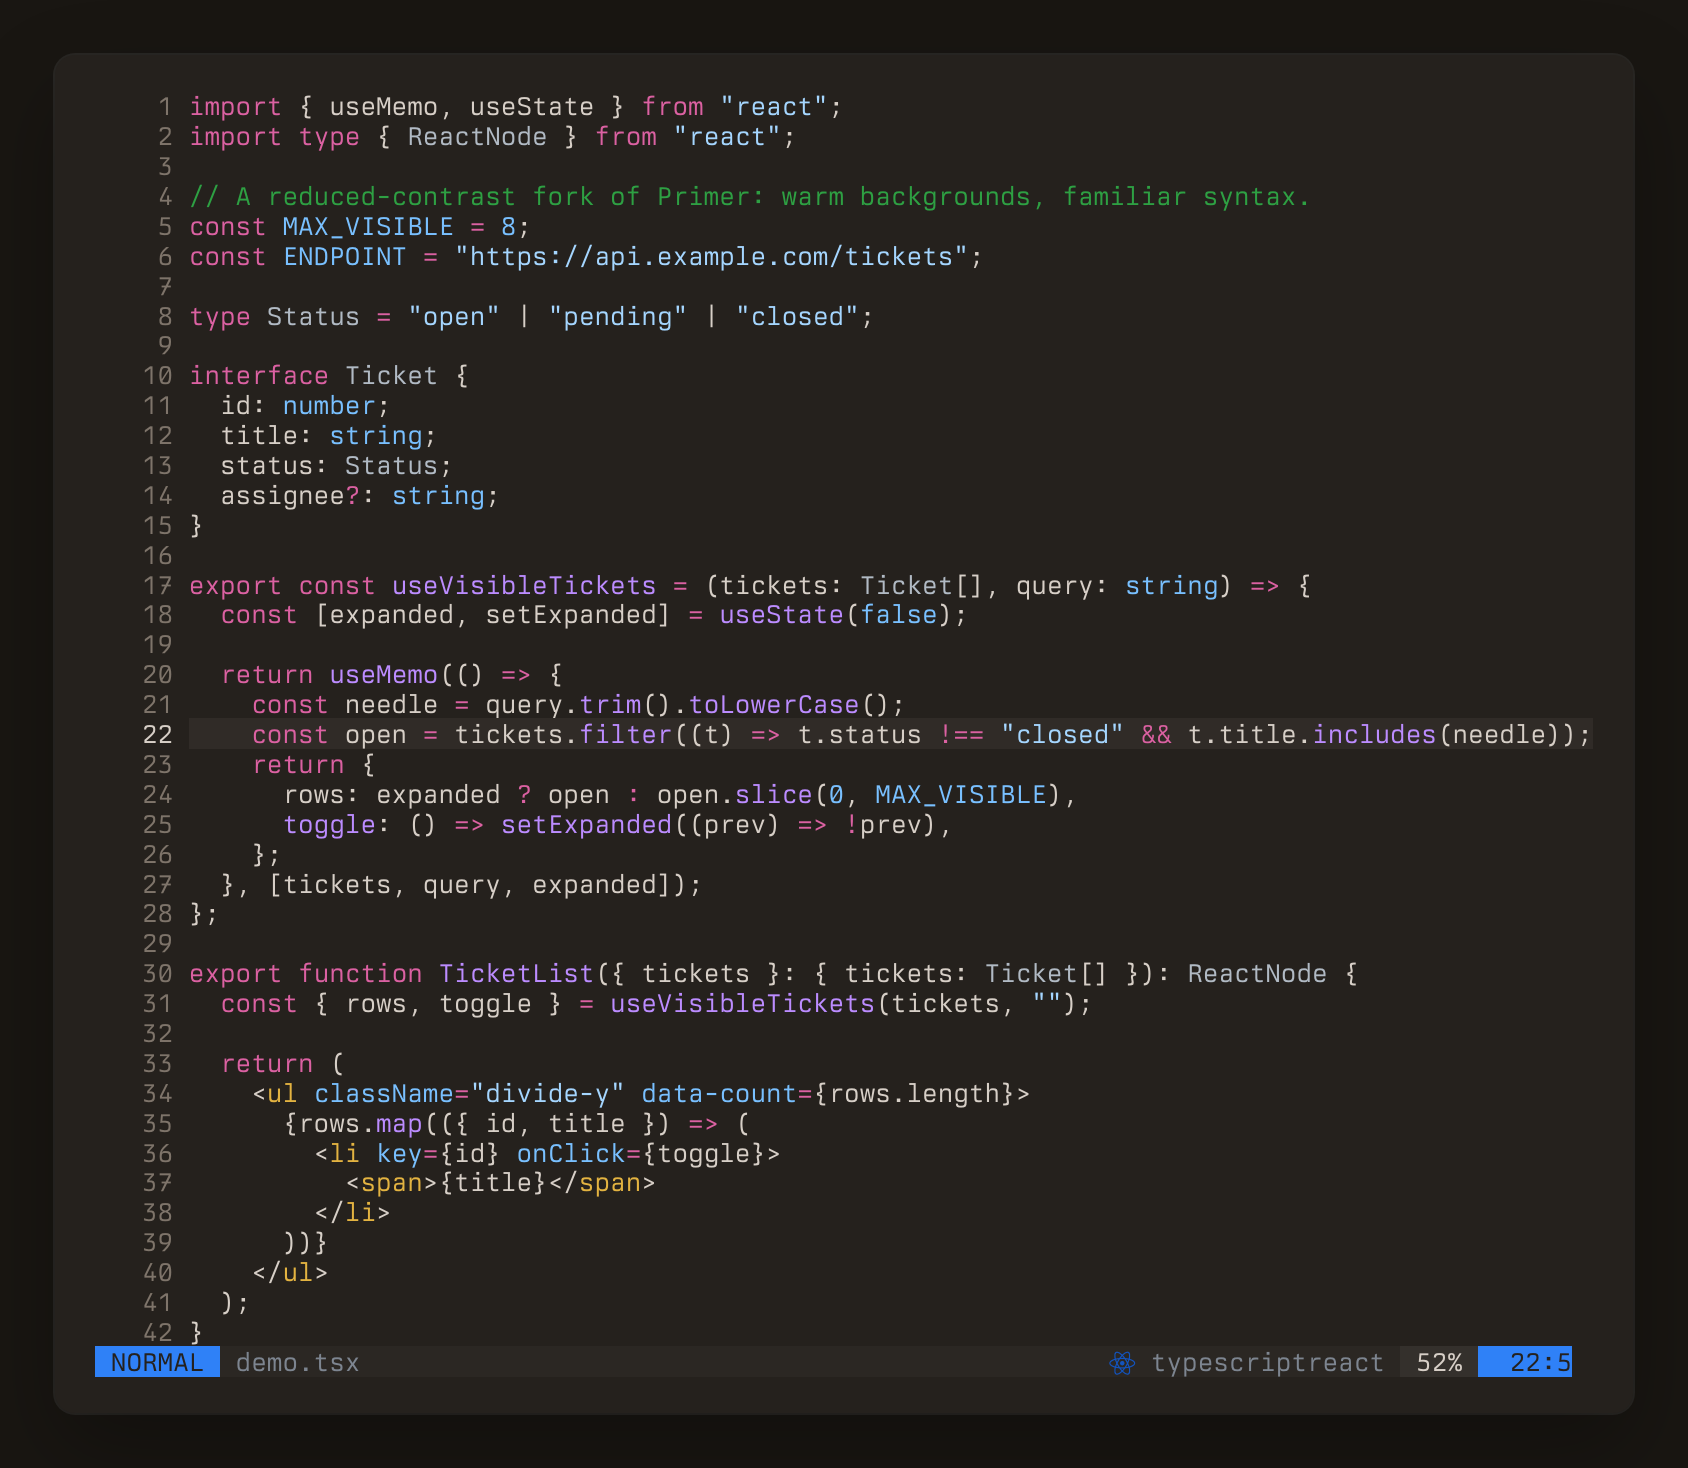
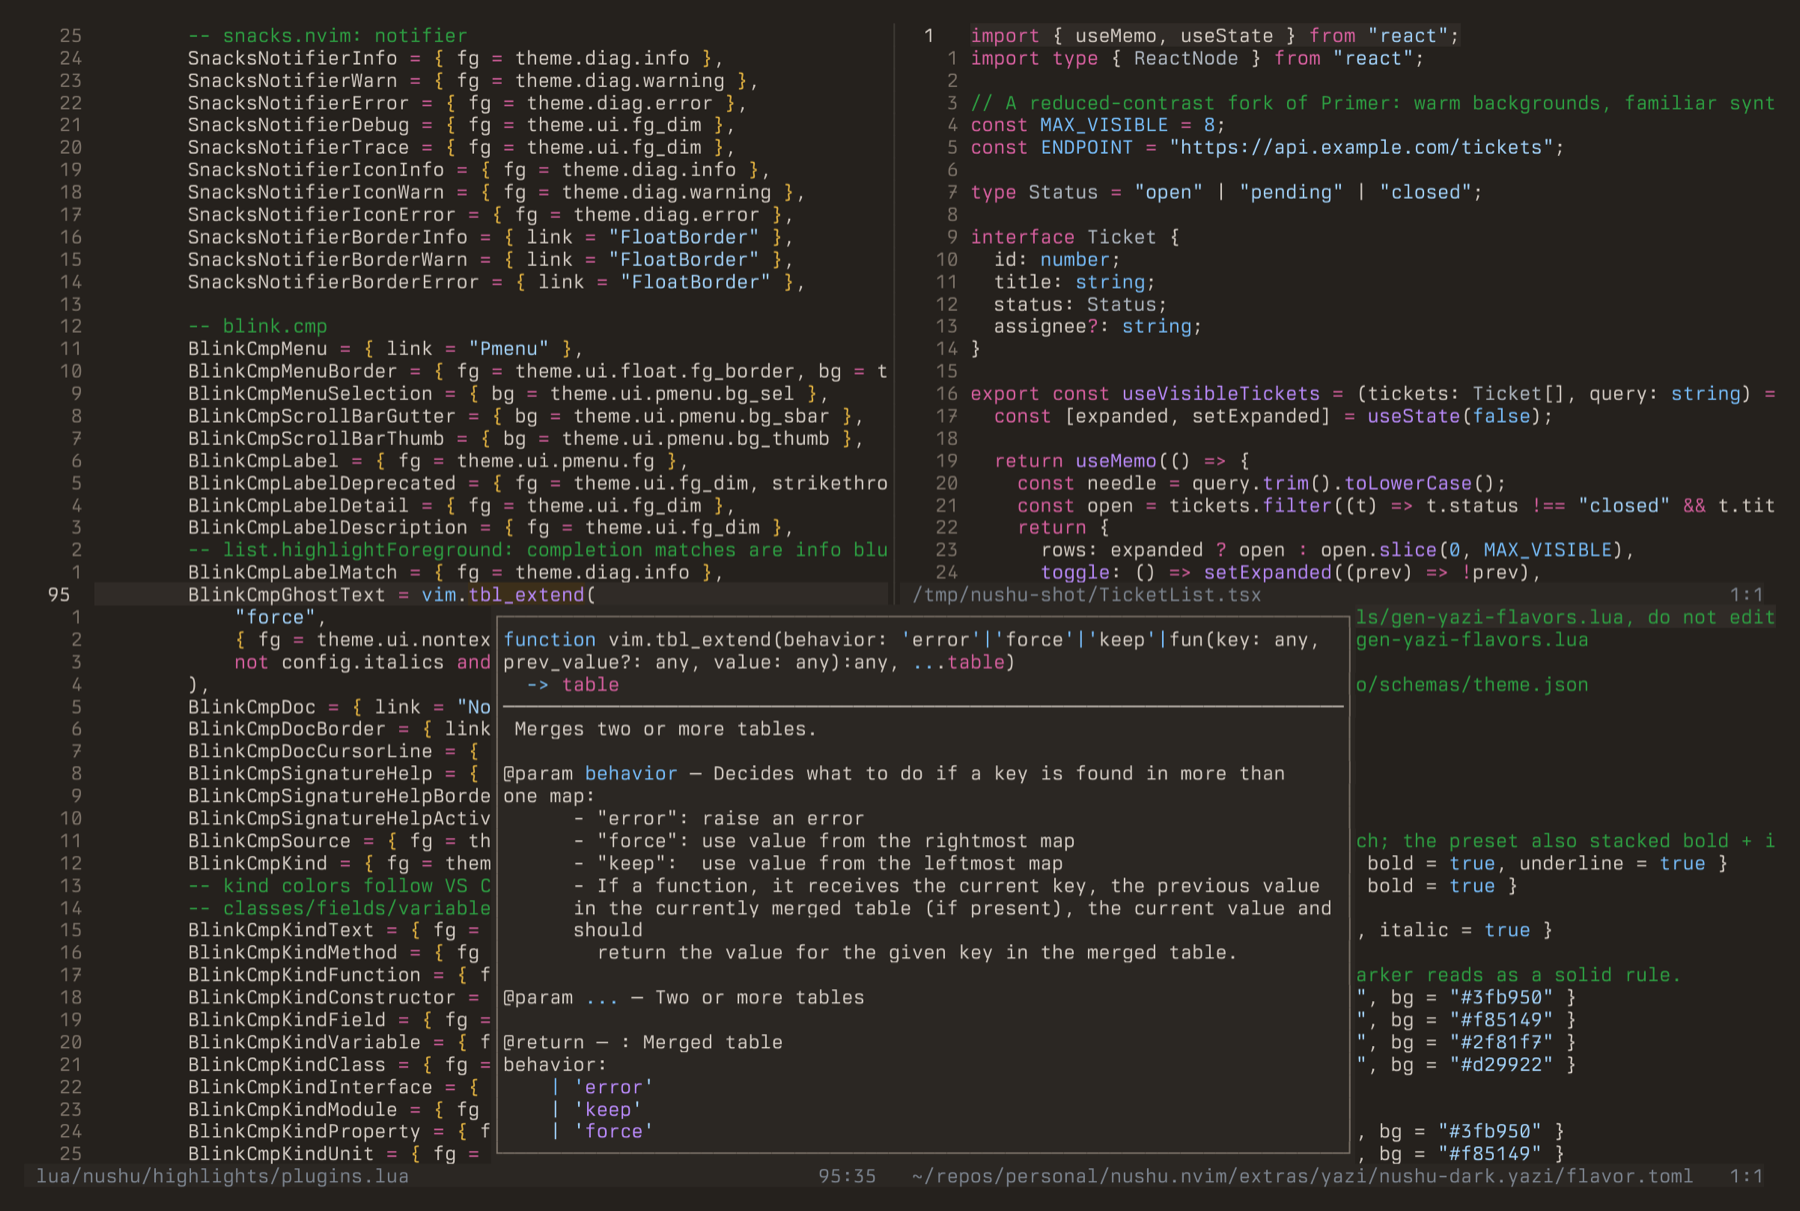
docs: Replace screenshots with denser, hover-showing captures
The originals were a single file per variant on a framed card. These follow the
convention set by well-documented themes like ThorstenRhau/token: show more of
the editor at once, and show the surfaces a colorscheme is actually judged on.

Each shot is three splits over three filetypes — Lua, TypeScript React, TOML —
with a live lua_ls hover float over the code. That float is the point: it
exercises NormalFloat, FloatBorder and the LSP documentation highlighting, none
of which a plain buffer shot reaches. Per-window statuslines carry the file
paths, and relative line numbers with the absolute number on the cursor line
match how the theme is normally seen.

Full-bleed rather than framed, and consistent across all three images now:
edge-to-edge terminal, no card, no shadow. The yazi capture keeps its content
but loses the ~35px cool-toned surround the screenshot tool added, which clashed
with the warm background it sat against.

Wrapping is off. Three splits at 150 columns wrap constantly otherwise, and a
ragged right edge reads worse than truncation.

diff --git a/README.md b/README.md
@@ -6,11 +6,11 @@ comfortable backgrounds. Dark and light variants included.
 
 **Dark**
 
-![Nushu Dark, highlighting a TypeScript React file](./assets/nushu-dark.png)
+![Nushu Dark: Lua, TypeScript React and TOML splits with an LSP hover float](./assets/nushu-dark.png)
 
 **Light**
 
-![Nushu Light, highlighting a TypeScript React file](./assets/nushu-light.png)
+![Nushu Light: Lua, TypeScript React and TOML splits with an LSP hover float](./assets/nushu-light.png)
 
 ## Requirements
 
